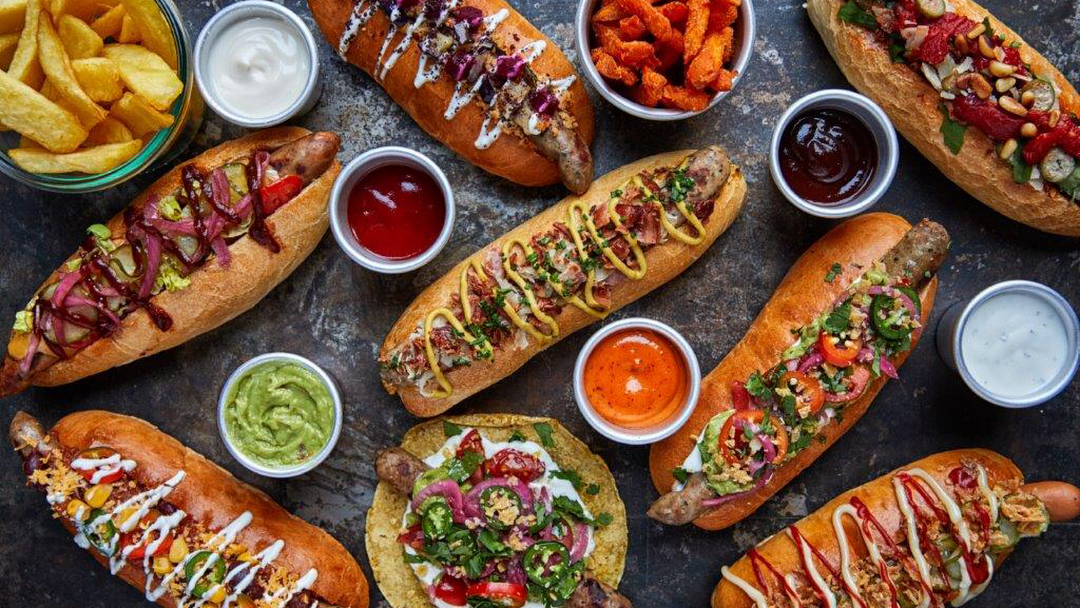
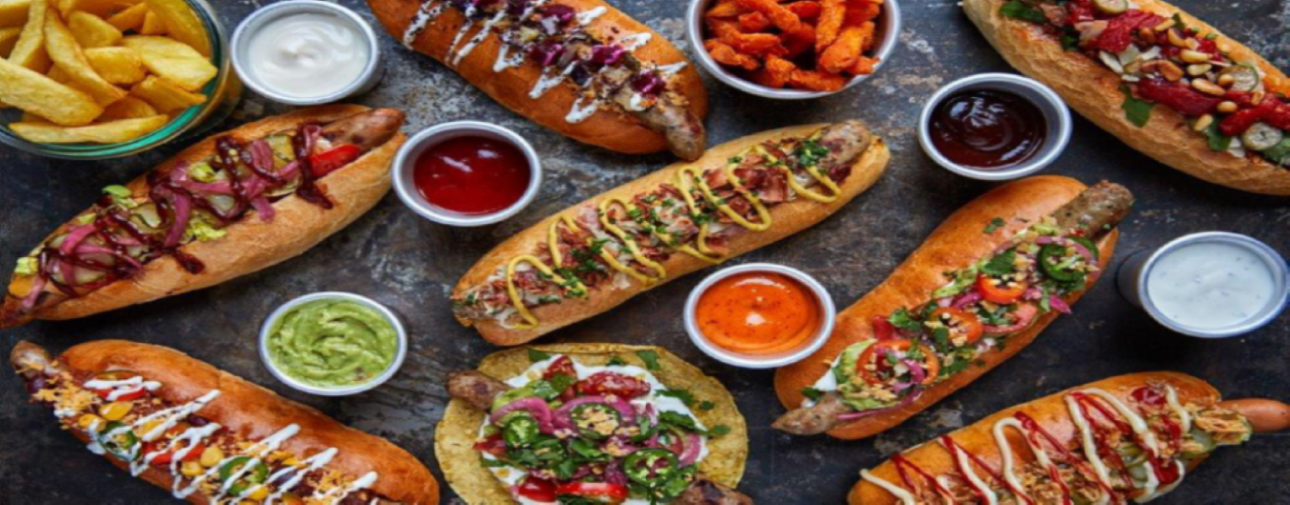
added company profile

diff --git a/aboutus.html b/aboutus.html
@@ -1,0 +1,49 @@
+
+<!DOCTYPE html>
+<html lang="en">
+
+<head>
+    <meta charset="UTF-8">
+    <meta name="viewport" content="width=device-width, initial-scale=1.0">
+    <meta http-equiv="X-UA-Compatible" content="ie=edge">
+    <title>Document</title>
+    <link rel="stylesheet" href="CSS/aboutus.css">
+    <a class="top-left" href="index.html">home</a>
+</head>
+
+<body>
+        <div class="hero-image">
+                <img class="center" src="image/Mainpage.png">
+                
+                <div class="border">
+                    <div class="bg-text">
+                        <h1 class="about-me">About Columbus Hotdog</h1>
+                        <p class= "content">Columbus Hotdog® is a registered trademark owned by Marathon Enterprises, Inc., a major regional supplier to the retail, wholesale and food service industries with an enviable reputation for quality and service dating back to 2018. Columbus Hotdogs® Lowes are sold nationally under the Columbus Hotdogs® label.
+
+                                Direct customers include retail supermarkets, wholesale clubs, independent distributors, movie theaters, amusement parks, snack bars, pushcart vendors, convention centers, ballparks and stadiums.
+                                
+                                Columbus Hotdogs®’s facilities include two manufacturing plants and a distribution center in the Bronx, NY that ships Columbus Hotdogs® products nationwide. The Columbus Hotdogs® corporate offices are located in Englewood, New Jersey.
+                                
+                                As required by the USDA, Columbus Hotdogs® plants are supervised by onsite Government Inspectors. Recently the government has proposed much stricter guidelines for all processed food. Here at Columbus Hotdogs® we are already meeting and exceeding those guidelines.
+        
+                           </p>
+                        
+                            <ul id="statistics">
+                                <li>Provided more than $5 billion in gross food sales to local takeout restaurants in 2018</li>
+                                <li>Processes 521,000 daily orders</li>
+                                <li>Serves 19.3 million active diners</li>
+                                <li>Sent more than $2 billion in total tips to drivers</li>    
+                            </ul>
+                                
+                                
+                    </div>
+                </div>
+            </div>
+            <footer>
+                <small>&copy; 2019 Avighna Enterprises, Inc. All rights reserved. Columbus Hotdog® is a registered trademark of Avighna Enterpeises, Inc.</small>
+            </footer>
+            <script src="js/aboutus.js"></script> 
+        </body>
+        
+        </html>
+        

diff --git a/JS/aboutus.js b/JS/aboutus.js
@@ -1,0 +1,21 @@
+var element = document.getElementById("statistics");
+element.addEventListener("animationstart", listener, false);
+element.addEventListener("animationend", listener, false);
+element.addEventListener("animationiteration", listener, false);
+
+element.className = "slidein";
+function listener(event) {
+  var l = document.createElement("li");
+  switch(event.type) {
+    case "animationstart":
+      l.innerHTML = "Started: elapsed time is " + event.elapsedTime;
+      break;
+    case "animationend":
+      l.innerHTML = "Ended: elapsed time is " + event.elapsedTime;
+      break;
+    case "animationiteration":
+      l.innerHTML = "New loop started at time " + event.elapsedTime;
+      break;
+  }
+  document.getElementById("output").appendChild(l);
+}

diff --git a/CSS/aboutus.css b/CSS/aboutus.css
@@ -1,0 +1,33 @@
+
+.hero-image{
+    background-image: linear-gradient(0,0,0,0.5), rgba(0,0,0,0.5);
+    height:10%;
+    background-position: center;
+    background-repeat: no-repeat;
+    background-size:cover;
+    position:relative;
+}
+.slidein {
+    animation-duration: 3s;
+    animation-name: slidein;
+    animation-iteration-count: 3;
+    animation-direction: alternate;
+  }
+  
+  @keyframes slidein {
+    from {
+      margin-left:100%;
+      width:300%
+    }
+    
+    to {
+      margin-left:0%;
+      width:100%;
+    }
+  }
+footer {
+    background-color:goldenrod;
+    padding: 10px;
+    text-align: center;
+    color: white; 
+  }

diff --git a/CSS/index.css b/CSS/index.css
@@ -11,16 +11,25 @@
 header #logo img{
     max-width: 100%;
     height: auto;
-    width:583px;
-    padding-bottom:0px;
+  
 }
+
 .desktop{
     margin-top: 15px;
     margin-bottom:15px;
 }
-.phone{
-    margin-top: 20px;
-    margin-bottom: 20px;
+.hide-navicon-button{
+	background:transparent;
+	border:0;
+	position:absolute;
 }
-
+.navicon-container{
+	position:absolute;
+	top:20px;
+	right:50px;
+	cursor: pointer;
+  justify-items: right;
+  height:40px;
+  width:35px;
+}
 
